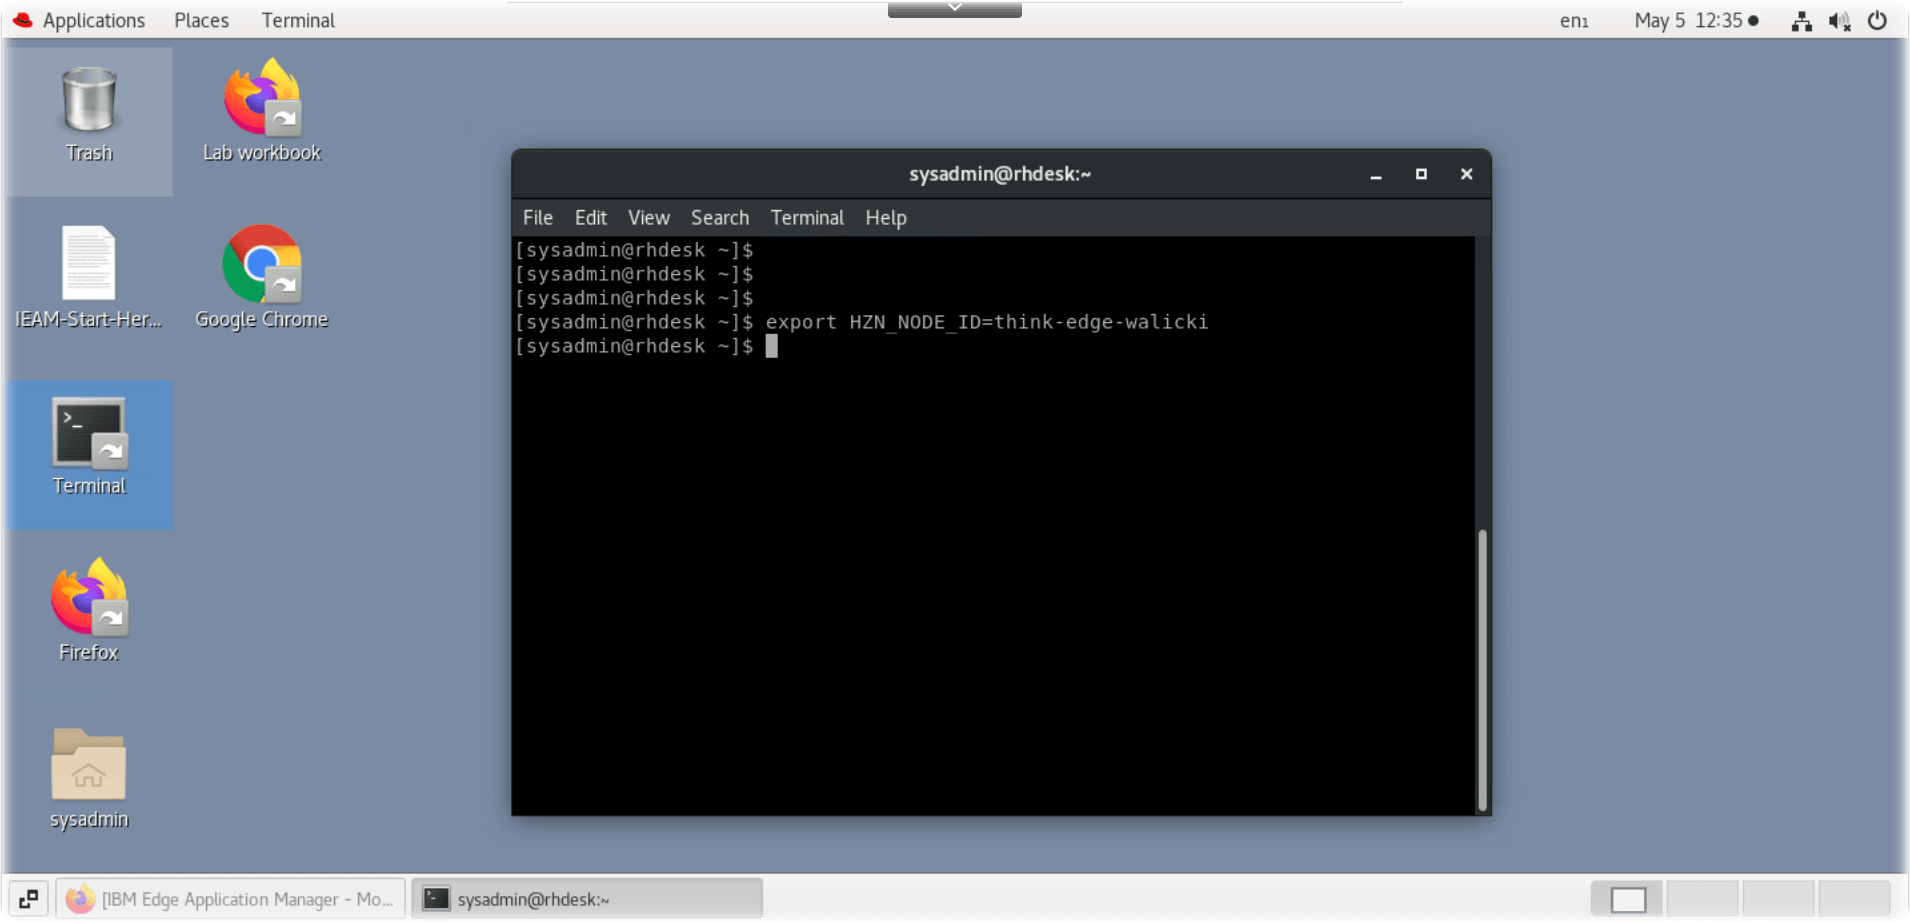
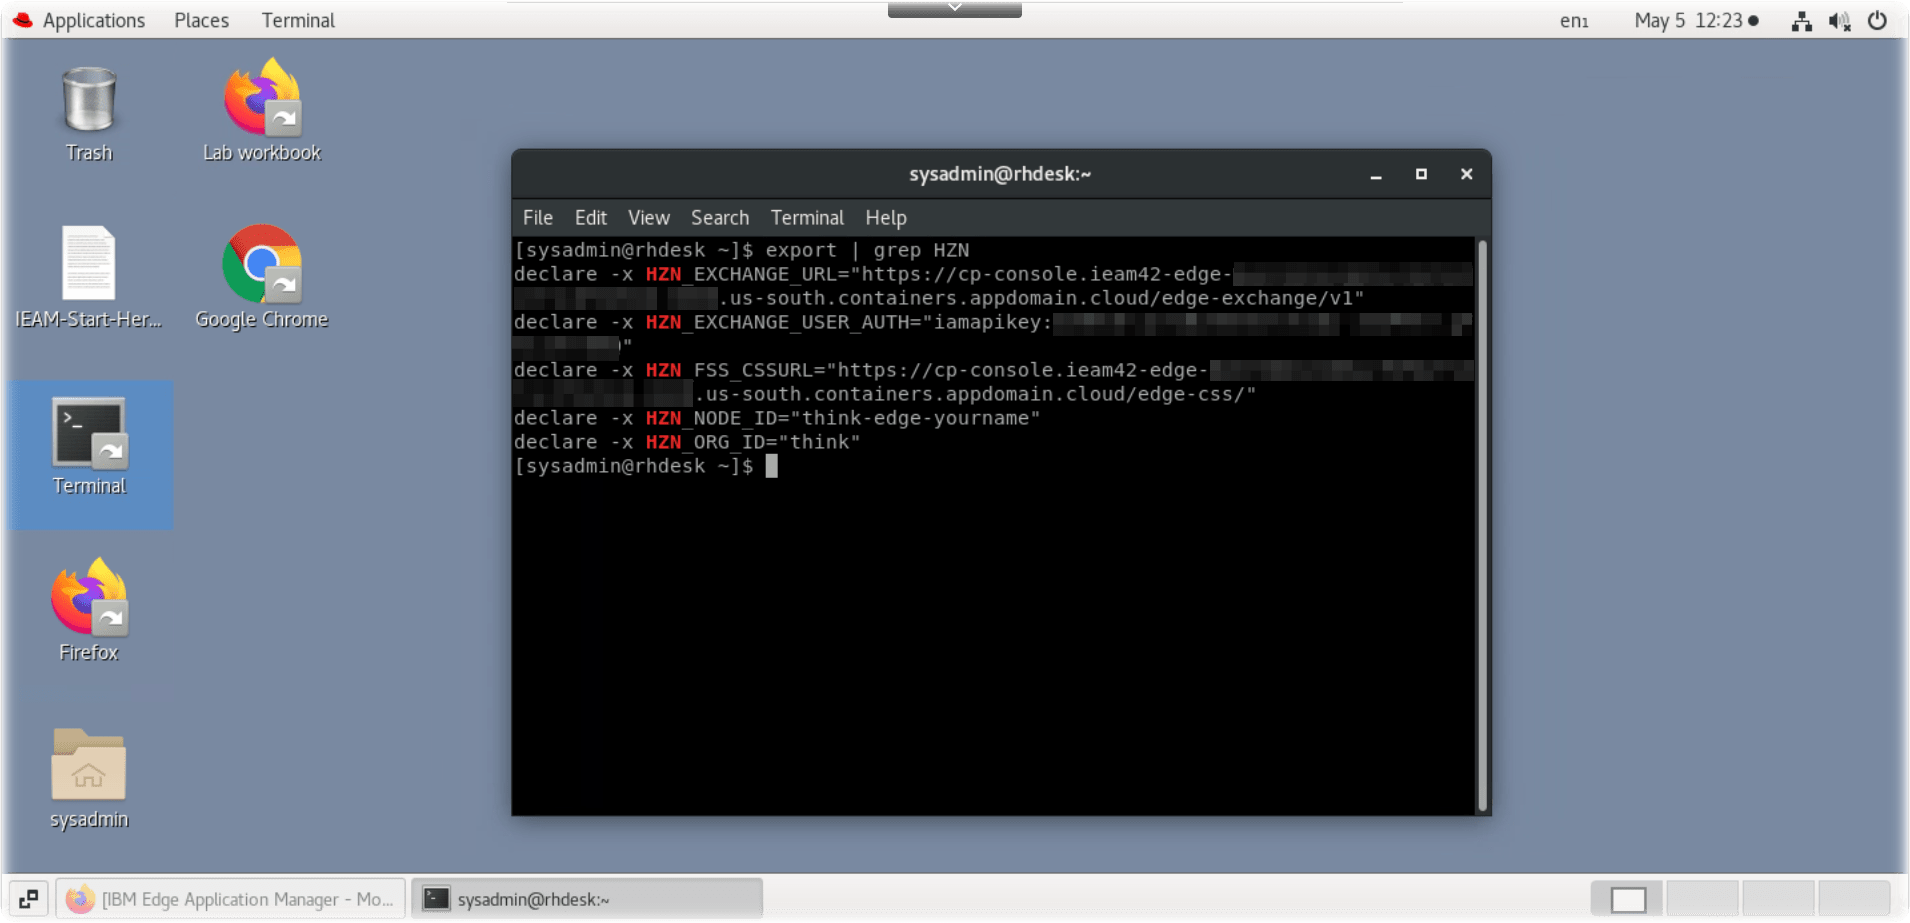
Additional IEAM screenshots

diff --git a/README.md b/README.md
@@ -23,11 +23,13 @@ This Code@Think lab session is available for IBM Think 2021 conference attendees
 - Access the Think 2021 Lab virtual machine environment
 - Learn about IEAM components
 - Explore the IEAM web console
+- Register an Edge node
+-
 
 ## Access to the Think 2021 Lab Environment
 
 - Select **sysadmin**
-  ![VM login screen](screenshots/VM-login-screen.png) screenshot
+  ![VM login screen](screenshots/VM-login-screen.png)
 
 - Login Credentials for the virtual machine are stored in the toolbar
 - Click on the **Keys** icon in the top toolbar
@@ -46,20 +48,16 @@ This lab will use several components within the RHEL Gnome desktop environment:
 - a terminal window to execute `hzn` Horizon edge agent commands
 - a browser window with access to the IBM Edge Application Manager web console
 - this GitHub repository / PDF which provides exercises to learn about IEAM, the Horizon agent, and containerized edge workloads
-- Select the Lab workbook Firefox icon (if you prefer Chrome, select the Chrome icon and then open the 'Lab workbook' from the bookmark bar)
-- The browser will open to the [Introduction to IBM Edge Application Manager - IEAM](https://github.com/johnwalicki/Introduction-to-IEAM)] github repo
+- Select the Lab workbook Firefox icon (if you prefer Chrome, select the Chrome icon and then open the 'Lab Workbook' from the bookmark bar)
+- The browser will open to the [Introduction to IBM Edge Application Manager - IEAM](https://github.com/johnwalicki/Introduction-to-IEAM) github repo
 
-### IEAM Component Defintions
+### IEAM Component Definitions
 
-Before proceeding to the lab instructions, let's review some IEAM component definitions
+Before proceeding to the lab instructions, let's review some IEAM component definitions.
 
-#### IEAM Management Hub
+*IEAM Management Hub* - The web UI used by IEAM administrators to view and manage the other components of IBM Edge Application Manager.
 
-The web UI used by IEAM administrators to view and manage the other components of IBM Edge Application Manager.
-
-#### Node
-
-Typically, **edge devices** have a prescriptive purpose, provide (often limited) compute capabilities, and are located near or at the data source. Currently [supported IEAM edge device OS and architectures](https://www.ibm.com/docs/en/edge-computing/4.2?topic=devices-preparing-edge-device#suparch-horizon):
+*Node* - Typically, **edge devices** have a prescriptive purpose, provide (often limited) compute capabilities, and are located near or at the data source. Currently [supported IEAM edge device OS and architectures](https://www.ibm.com/docs/en/edge-computing/4.2?topic=devices-preparing-edge-device#suparch-horizon):
 
 - x86_64
   - Linux x86_64 devices or virtual machines that run Ubuntu 20.x (focal), Ubuntu 18.x (bionic), Debian 10 (buster), Debian 9 (stretch)
@@ -76,23 +74,17 @@ Typically, **edge devices** have a prescriptive purpose, provide (often limited)
 - Mac
   - macOS
 
-### Containerized Workload
+*Containerized Workload* - Any Docker/OCI containerized service, microservice, or piece of software that does meaningful work when it runs on an edge node.
 
-Any Docker/OCI containerized service, microservice, or piece of software that does meaningful work when it runs on an edge node.
+*Service* - A service that is designed specifically to be deployed on an edge cluster, edge gateway, or edge device. Visual recognition, acoustic insights, and speech recognition are all examples of potential edge services.
 
-### Service
+*Pattern*
 
-A service that is designed specifically to be deployed on an edge cluster, edge gateway, or edge device. Visual recognition, acoustic insights, and speech recognition are all examples of potential edge services.
+*Policy*
 
-### Pattern
+*IEAM Edge Cluster* - IBM Edge Application Manager (IEAM) [edge cluster capability](https://www.ibm.com/docs/en/edge-computing/4.2?topic=nodes-edge-clusters) helps you manage and deploy workloads from a management hub cluster to remote instances of OpenShift® Container Platform or other Kubernetes-based clusters. Edge clusters are IEAM edge nodes that are Kubernetes clusters. An edge cluster enables use cases at the edge, which require colocation of compute with business operations, or that require more scalability, availability, and compute capability than what can be supported by an edge device.  IEAM edge cluster configuration is outside the scope of this introduction lab.
 
-### Policy
-
-### IEAM Edge Cluster
-
-IBM Edge Application Manager (IEAM) [edge cluster capability](https://www.ibm.com/docs/en/edge-computing/4.2?topic=nodes-edge-clusters) helps you manage and deploy workloads from a management hub cluster to remote instances of OpenShift® Container Platform or other Kubernetes-based clusters. Edge clusters are IEAM edge nodes that are Kubernetes clusters. An edge cluster enables use cases at the edge, which require colocation of compute with business operations, or that require more scalability, availability, and compute capability than what can be supported by an edge device.  IEAM edge cluster configuration is outside the scope of this introduction lab.
-
-### Architecture
+## Architecture
 
 The goal of edge computing is to harness the disciplines that have been created for hybrid cloud computing to support remote operations of edge computing facilities. IEAM is designed for that purpose.
 
@@ -140,13 +132,15 @@ The VM provided during the Think 2021 lab will be your "edge device" for the lab
 
   ![HZN env vars](screenshots/VM-Terminal-HZN-envvars.png) **Note:** (the urls and iamapikey have been blurred in the public screenshots)
 
-- Set your HZN_NODE_ID environment variable to something unique which will allow you to find your "edge" device in the IEAM management console.  eg `think-edge-yourname`
+- Set your HZN_NODE_ID environment variable to something unique which will allow you to find your "edge" device in the IEAM management console.  eg `think-edge-<yourname>`
 
    ```sh
-   export HZN_NODE_ID=think-edge-yourname
+   export HZN_NODE_ID=think-edge-<yourname>
    ```
 
-   ![Set HZN Node ID env var](screenshots/VM-Terminal-HZN-envvars.png)
+   ![Set HZN Node ID env var](screenshots/VM-Terminal-HZN-node-id.png)
+
+- **Stop** : Did you `export HZN_NODE_ID=think-edge-<yourname>` as required in the above step?  You won't be able to find your device in the IEAM mgmt console if you don't set a node name.
 - Install / Register your edge node
 
   ```sh
@@ -156,9 +150,18 @@ The VM provided during the Think 2021 lab will be your "edge device" for the lab
   ![Horizon Agent Install](screenshots/VM-Terminal-agent-install.png)
   Use the **Keys** toolbar to insert the `sysadmin` password at the `sudo` prompt
 
-- Return to the IEAM web console.  Refresh, Find your device
+- When the node registration completes, it will have also configured an `IBM/ibm.helloworld` pattern to execute on this node.
+  ![Horizon Agent Install](screenshots/VM-Terminal-agent-install-success.png)
 
-  ![IEAM node list](screenshots/VM-IEAM-home.png)
+- Return to the IEAM web console.  Refresh, Find your device
+  ![IEAM node list](screenshots/VM-IEAM-node-list.png)
+- If you don't see your node, or you skipped the step which sets the name of your edge node, `export HZN_NODE_ID=think-edge-<yourname>` , you can unregister the node and try again.
+
+  ```sh
+  sudo hzn unregister -vrfD
+  export HZN_NODE_ID=think_edge_<yourname>
+  sudo -s -E ./agent-install.sh -i 'css:' -p IBM/pattern-ibm.helloworld -w '*' -T 120
+  ```
 
 - Return to the Terminal window. See what agreements are running.
 
@@ -166,22 +169,32 @@ The VM provided during the Think 2021 lab will be your "edge device" for the lab
   hzn agreement list
   ```
 
-### Using the Horizon HZN command line
-The IEAM management hub installation includes several services should have been published into the exchange automatically. The following three command will list the services, patterns, and deployment policies available in your exchange:
+  ![HZN cli](screenshots/VM-Terminal-HZN-agbot.png)
 
-**Note:** The above commands assume you have the Horizon environment variables `HZN_ORG_ID` and `HZN_EXCHANGE_USER_AUTH` set
+- Query details about your node
+
+  ```sh
+  hzn node list IBM/
+  ```
+
+  ![HZN cli](screenshots/VM-Terminal-HZN-node-list.png)
+
+### Using the Horizon HZN command line
+The IEAM management hub installation includes several services which have been published into the exchange automatically. The following commands will list the services, patterns, and deployment policies available in your exchange:
+
+**Note:** The following commands assume you have the Horizon environment variables `HZN_ORG_ID` and `HZN_EXCHANGE_USER_AUTH` set
 
 ```sh
 hzn exchange service list IBM/
 ```
 
-![HZN cli](screenshots/VM-Terminal-HZN-envvars.png)
+![HZN cli](screenshots/VM-Terminal-HZN-ex-srv-list.png)
 
 ```sh
 hzn exchange pattern list IBM/
 ```
 
-![HZN cli](screenshots/VM-Terminal-HZN-envvars.png)
+![HZN cli](screenshots/VM-Terminal-HZN-ex-pat-list.png)
 
 ```sh
 hzn exchange deployment listpolicy
@@ -189,23 +202,28 @@ hzn exchange deployment listpolicy
 
 ![HZN cli](screenshots/VM-Terminal-HZN-envvars.png)
 
+- Review the event log for this node.
+
 ```sh
-hzn eventlog list -s severity=error -l
+hzn eventlog list
 ```
 
-![](screenshots/VM-Terminal-HZN-envvars.png)
+![](screenshots/VM-Terminal-HZN-eventlog-list.png)
 
-### Web Hello containerized workload
+## Web Hello containerized workload
 
 Create a Web Hello service
 
+- intro to the web-hello service
+- https://github.com/MegaMosquito/web-hello
 - cli
 - node properties
 - Open a browser to the port
 
-### SpeedTest to MQTT containerized workload
+## SpeedTest to MQTT containerized workload
 
-- Create a SpeedTest
+- Intro to the Speedtest workload
+- Create a SpeedTest service, screenshots
 - Open a Browser to QuickStart
 - Enter your HZN node id
 
